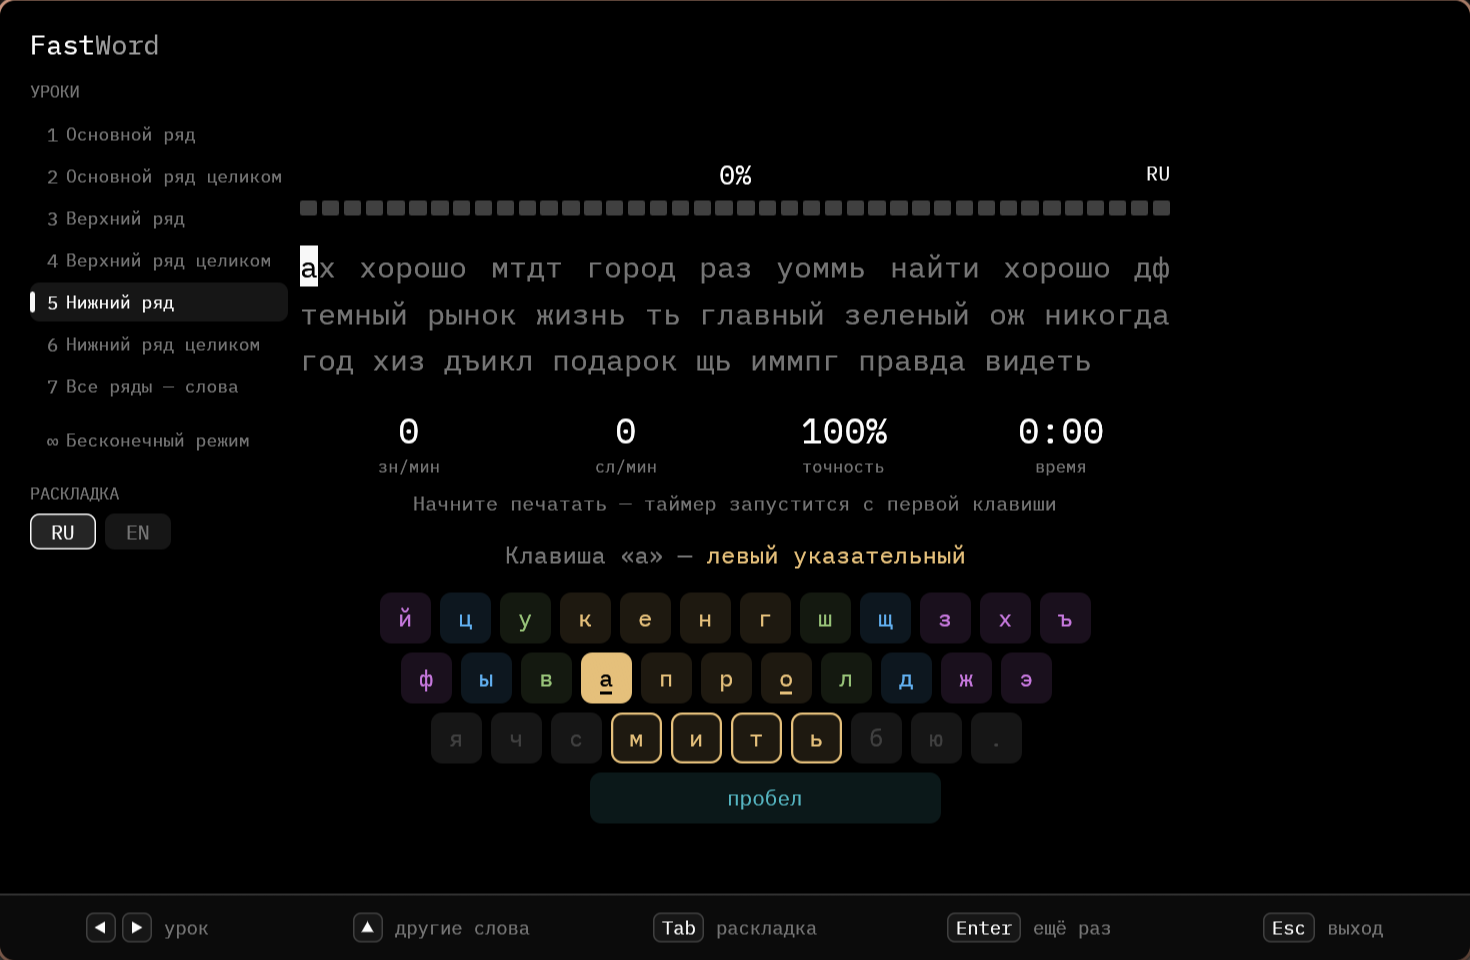
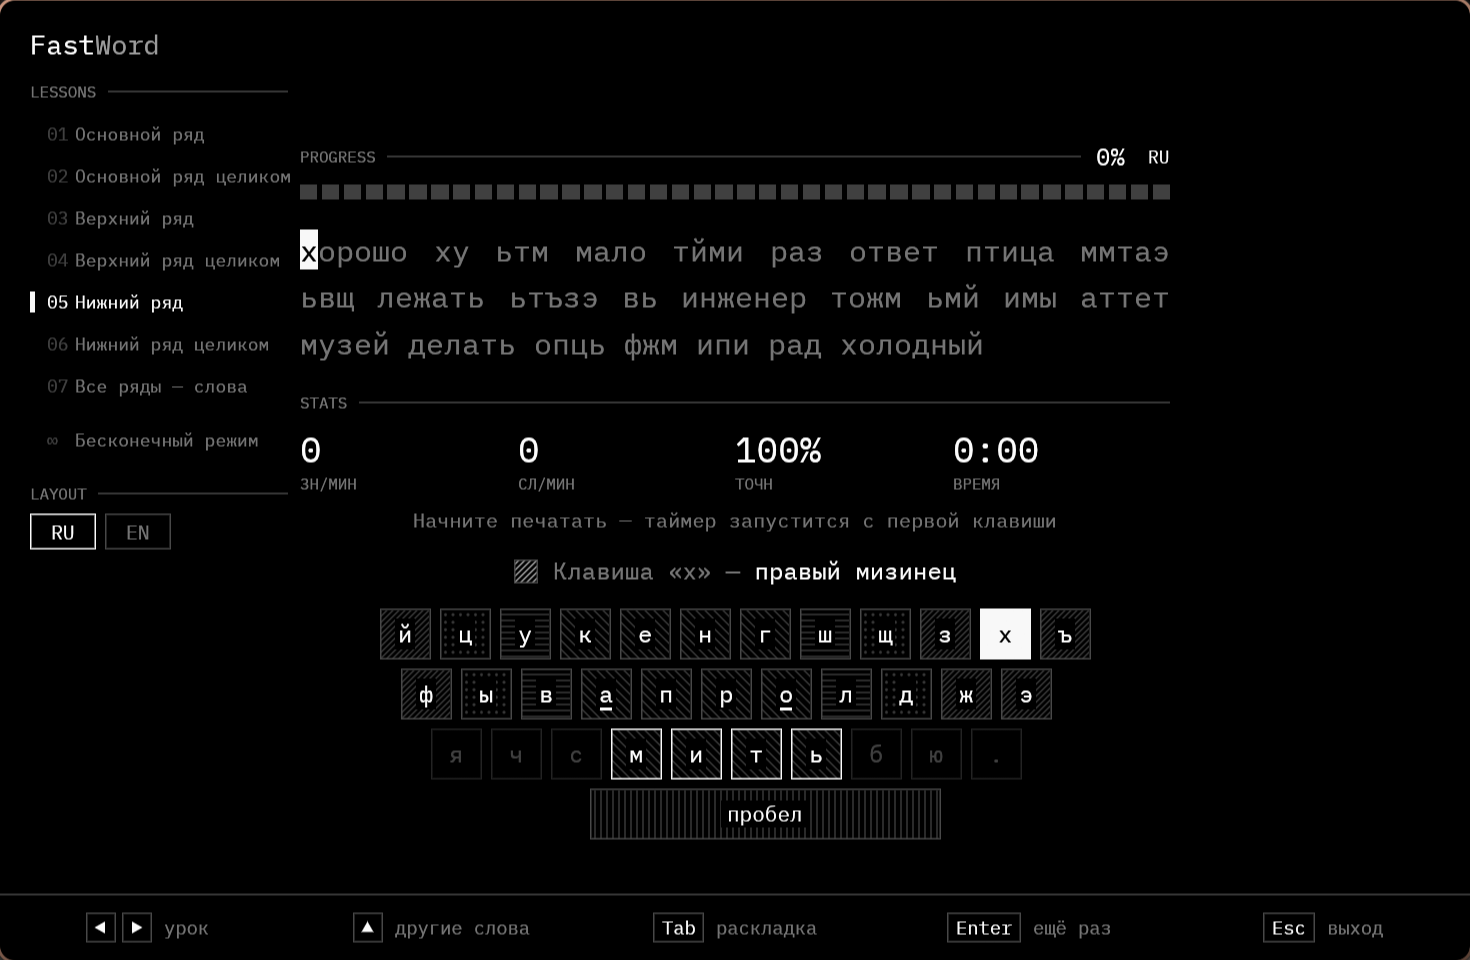
Версия 0.4.4: окно по варианту A — подписи разделов с линиями, номера уроков, клавиатура штриховкой

diff --git a/src/bin/fastword-gui.rs b/src/bin/fastword-gui.rs
@@ -18,7 +18,8 @@ struct Palette {
     sub: Color32,
     error: Color32,
     warn: Color32,
-    fingers: [Color32; 5],
+    line: Color32,
+    hatch: Color32,
 }
 
 const P: Palette = Palette {
@@ -31,14 +32,67 @@ const P: Palette = Palette {
     sub: Color32::from_rgb(0x9c, 0x9c, 0x9c),
     error: Color32::from_rgb(0xe0, 0x6c, 0x75),
     warn: Color32::from_rgb(0xe5, 0xc0, 0x7b),
-    fingers: [
-        Color32::from_rgb(0xc6, 0x78, 0xdd),
-        Color32::from_rgb(0x61, 0xaf, 0xef),
-        Color32::from_rgb(0x98, 0xc3, 0x79),
-        Color32::from_rgb(0xe5, 0xc0, 0x7b),
-        Color32::from_rgb(0x56, 0xb6, 0xc2),
-    ],
+    line: Color32::from_rgb(0x48, 0x48, 0x48),
+    hatch: Color32::from_rgb(0x38, 0x38, 0x38),
 };
+
+fn section(p: &egui::Painter, left: f32, right: f32, y: f32, label: &str, color: Color32, line: Color32) -> f32 {
+    let g = p.layout_no_wrap(label.to_string(), FontId::monospace(10.5), color);
+    let h = g.size().y;
+    let end = left + g.size().x;
+    p.galley(Pos2::new(left, y), g, color);
+    if right > end + 8.0 {
+        p.hline((end + 8.0)..=right, y + h / 2.0, Stroke::new(1.0, line));
+    }
+    end
+}
+
+fn hatch(p: &egui::Painter, r: Rect, group: usize, color: Color32) {
+    let p = p.with_clip_rect(r);
+    let s = Stroke::new(1.0, color);
+    let (w, h) = (r.width(), r.height());
+    match group {
+        0 => {
+            let mut d = -h;
+            while d < w {
+                p.line_segment([Pos2::new(r.left() + d, r.bottom()), Pos2::new(r.left() + d + h, r.top())], s);
+                d += 4.0;
+            }
+        }
+        1 => {
+            let mut y = r.top() + 3.0;
+            while y < r.bottom() {
+                let mut x = r.left() + 3.0;
+                while x < r.right() {
+                    p.circle_filled(Pos2::new(x, y), 0.9, color);
+                    x += 5.0;
+                }
+                y += 5.0;
+            }
+        }
+        2 => {
+            let mut y = r.top() + 2.5;
+            while y < r.bottom() {
+                p.hline(r.x_range(), y, s);
+                y += 4.0;
+            }
+        }
+        3 => {
+            let mut d = -h;
+            while d < w {
+                p.line_segment([Pos2::new(r.left() + d, r.top()), Pos2::new(r.left() + d + h, r.bottom())], s);
+                d += 6.0;
+            }
+        }
+        _ => {
+            let mut x = r.left() + 2.5;
+            while x < r.right() {
+                p.vline(x, r.y_range(), s);
+                x += 4.0;
+            }
+        }
+    }
+}
 
 const COLUMN: f32 = 580.0;
 const KEY: f32 = 34.0;
@@ -148,7 +202,7 @@ impl App {
         let mut y = full.top() + 54.0;
         let clickable = t > 0.6;
 
-        ui.painter().text(Pos2::new(left, y), Align2::LEFT_TOP, "УРОКИ", FontId::proportional(11.0), fade(P.dim));
+        section(ui.painter(), left, left + MENU_W, y, "LESSONS", fade(P.dim), fade(P.line));
         y += 22.0;
 
         let mut chosen = None;
@@ -163,16 +217,13 @@ impl App {
             let current = i == self.lesson;
             let p = ui.painter();
             if current {
-                p.rect_filled(row, CornerRadius::same(6), fade(P.surface));
                 let bar = Rect::from_min_size(row.min + Vec2::new(0.0, 6.0), Vec2::new(3.0, 14.0));
-                p.rect_filled(bar, CornerRadius::same(2), fade(P.accent));
-            } else if clickable && resp.hovered() {
-                p.rect_filled(row, CornerRadius::same(6), fade(P.surface.gamma_multiply(0.6)));
+                p.rect_filled(bar, CornerRadius::ZERO, fade(P.accent));
             }
-            let num_color = if current { P.accent } else { P.dim };
+            let num_color = if current { P.text } else { P.faint };
             let text_color = if current || (clickable && resp.hovered()) { P.text } else { P.dim };
-            p.text(row.left_center() + Vec2::new(11.0, 0.0), Align2::LEFT_CENTER, if is_endless(i) { "∞".to_string() } else { format!("{}", i + 1) }, FontId::monospace(12.5), fade(num_color));
-            p.text(row.left_center() + Vec2::new(24.0, 0.0), Align2::LEFT_CENTER, lesson.title, FontId::proportional(12.0), fade(text_color));
+            p.text(row.left_center() + Vec2::new(11.0, 0.0), Align2::LEFT_CENTER, if is_endless(i) { "∞".to_string() } else { format!("{:02}", i + 1) }, FontId::monospace(12.0), fade(num_color));
+            p.text(row.left_center() + Vec2::new(30.0, 0.0), Align2::LEFT_CENTER, lesson.title, FontId::proportional(12.0), fade(text_color));
             if clickable && resp.clicked() {
                 chosen = Some(i);
             }
@@ -185,17 +236,9 @@ impl App {
                     let resp = ui.interact(r, ui.scope_id().with(("mix", k)), Sense::CLICK);
                     let on = mix == self.mix;
                     let p = ui.painter();
-                    let (fill, color) = if on {
-                        (P.accent.gamma_multiply(0.15), P.accent)
-                    } else if clickable && resp.hovered() {
-                        (P.surface, P.text)
-                    } else {
-                        (P.surface, P.dim)
-                    };
-                    p.rect_filled(r, CornerRadius::same(6), fade(fill));
-                    if on {
-                        p.rect_stroke(r, CornerRadius::same(6), Stroke::new(1.0, fade(P.accent)), StrokeKind::Inside);
-                    }
+                    let color = if on || (clickable && resp.hovered()) { P.text } else { P.dim };
+                    let border = if on { P.text } else { P.line };
+                    p.rect_stroke(r, CornerRadius::ZERO, Stroke::new(1.0, fade(border)), StrokeKind::Inside);
                     p.text(r.center(), Align2::CENTER_CENTER, mix.label(), FontId::proportional(12.0), fade(color));
                     if clickable && resp.clicked() {
                         new_mix = Some(mix);
@@ -206,7 +249,7 @@ impl App {
         }
 
         y += 14.0;
-        ui.painter().text(Pos2::new(left, y), Align2::LEFT_TOP, "РАСКЛАДКА", FontId::proportional(11.0), fade(P.dim));
+        section(ui.painter(), left, left + MENU_W, y, "LAYOUT", fade(P.dim), fade(P.line));
         y += 20.0;
         let mut new_lang = None;
         for (i, lang) in [Lang::Ru, Lang::En].into_iter().enumerate() {
@@ -214,17 +257,9 @@ impl App {
             let resp = ui.interact(r, ui.scope_id().with(("lang", i)), Sense::CLICK);
             let current = lang == self.lang;
             let p = ui.painter();
-            let (fill, color) = if current {
-                (P.accent.gamma_multiply(0.15), P.accent)
-            } else if clickable && resp.hovered() {
-                (P.surface, P.text)
-            } else {
-                (P.surface, P.dim)
-            };
-            p.rect_filled(r, CornerRadius::same(6), fade(fill));
-            if current {
-                p.rect_stroke(r, CornerRadius::same(6), Stroke::new(1.0, fade(P.accent)), StrokeKind::Inside);
-            }
+            let color = if current || (clickable && resp.hovered()) { P.text } else { P.dim };
+            let border = if current { P.text } else { P.line };
+            p.rect_stroke(r, CornerRadius::ZERO, Stroke::new(1.0, fade(border)), StrokeKind::Inside);
             p.text(r.center(), Align2::CENTER_CENTER, lang.label(), FontId::proportional(13.0), fade(color));
             if clickable && resp.clicked() {
                 new_lang = Some(lang);
@@ -253,13 +288,19 @@ impl App {
         let frac = t.typed.len() as f32 / t.target.len().max(1) as f32;
         let (r, _) = ui.allocate_exact_size(Vec2::new(w, 24.0), Sense::hover());
         let p = ui.painter();
-        let center = if t.endless {
-            format!("∞ · слов: {}", t.typed.iter().filter(|&&c| c == ' ').count())
+        let value = if t.endless {
+            format!("{} СЛОВ", t.typed.iter().filter(|&&c| c == ' ').count())
         } else {
             format!("{:.0}%", frac * 100.0)
         };
-        p.text(r.center(), Align2::CENTER_CENTER, center, FontId::proportional(18.0), P.text);
-        p.text(r.right_center(), Align2::RIGHT_CENTER, self.lang.label(), FontId::proportional(13.5), P.accent);
+        let lang = p.layout_no_wrap(self.lang.label().to_string(), FontId::monospace(12.0), P.text);
+        let lang_w = lang.size().x;
+        p.galley(Pos2::new(r.right() - lang_w, r.center().y - lang.size().y / 2.0), lang, P.text);
+        let val = p.layout_no_wrap(value, FontId::monospace(16.0), P.text);
+        let val_x = r.right() - lang_w - 16.0 - val.size().x;
+        p.galley(Pos2::new(val_x, r.center().y - val.size().y / 2.0), val, P.text);
+        let label = if t.endless { "ENDLESS" } else { "PROGRESS" };
+        section(p, r.left(), val_x - 10.0, r.center().y - 7.0, label, P.dim, P.line);
 
         const SEGMENTS: usize = 40;
         const SEG_GAP: f32 = 3.0;
@@ -274,7 +315,7 @@ impl App {
             let x = bar.left() + i as f32 * (seg_w + SEG_GAP);
             let seg = Rect::from_min_size(Pos2::new(x, bar.top()), Vec2::new(seg_w, bar.height()));
             let color = if i < filled { P.text } else { P.faint };
-            p.rect_filled(seg, CornerRadius::same(1), color);
+            p.rect_filled(seg, CornerRadius::ZERO, color);
         }
     }
 
@@ -333,19 +374,19 @@ impl App {
         let t = &self.test;
         let secs = t.elapsed().as_secs();
         let items = [
-            (format!("{:.0}", t.cpm()), "зн/мин"),
-            (format!("{:.0}", t.cpm() / 5.0), "сл/мин"),
-            (format!("{:.0}%", t.accuracy()), "точность"),
-            (format!("{}:{:02}", secs / 60, secs % 60), "время"),
+            (format!("{:.0}", t.cpm()), "ЗН/МИН"),
+            (format!("{:.0}", t.cpm() / 5.0), "СЛ/МИН"),
+            (format!("{:.0}%", t.accuracy()), "ТОЧН"),
+            (format!("{}:{:02}", secs / 60, secs % 60), "ВРЕМЯ"),
         ];
-        let value_color = if t.done() { P.accent } else { P.text };
-        let (r, _) = ui.allocate_exact_size(Vec2::new(ui.available_width(), 46.0), Sense::hover());
-        let cell = r.width() / items.len() as f32;
+        let (r, _) = ui.allocate_exact_size(Vec2::new(ui.available_width(), 68.0), Sense::hover());
         let p = ui.painter();
+        section(p, r.left(), r.right(), r.top(), "STATS", P.dim, P.line);
+        let cell = r.width() / items.len() as f32;
         for (i, (value, label)) in items.into_iter().enumerate() {
-            let cx = r.left() + cell * (i as f32 + 0.5);
-            p.text(Pos2::new(cx, r.top() + 14.0), Align2::CENTER_CENTER, value, FontId::proportional(24.0), value_color);
-            p.text(Pos2::new(cx, r.top() + 38.0), Align2::CENTER_CENTER, label, FontId::proportional(11.5), P.dim);
+            let x = r.left() + cell * i as f32;
+            p.text(Pos2::new(x, r.top() + 22.0), Align2::LEFT_TOP, value, FontId::monospace(24.0), P.text);
+            p.text(Pos2::new(x, r.top() + 54.0), Align2::LEFT_TOP, label, FontId::monospace(10.5), P.dim);
         }
     }
 
@@ -361,7 +402,7 @@ impl App {
             } else {
                 " · цель для следующего урока — точность от 95%"
             };
-            (format!("Готово! Enter — ещё раз{tail}"), P.accent)
+            (format!("Готово! Enter — ещё раз{tail}"), P.text)
         } else if t.started.is_none() {
             ("Начните печатать — таймер запустится с первой клавиши".to_string(), P.dim)
         } else if t.endless && t.paused() {
@@ -381,10 +422,16 @@ impl App {
         let mut job = LayoutJob::default();
         let font = FontId::proportional(16.0);
         job.append(&key, 0.0, TextFormat { font_id: font.clone(), color: P.dim, ..Default::default() });
-        job.append(f.name(), 0.0, TextFormat { font_id: font, color: P.fingers[f.group()], ..Default::default() });
+        job.append(f.name(), 0.0, TextFormat { font_id: font, color: P.text, ..Default::default() });
         let galley = ui.painter().layout_job(job);
-        let pos = r.center() - galley.size() / 2.0;
-        ui.painter().galley(pos, galley, P.text);
+        let sw = 16.0;
+        let total = sw + 10.0 + galley.size().x;
+        let x = r.center().x - total / 2.0;
+        let swatch = Rect::from_min_size(Pos2::new(x, r.center().y - sw / 2.0), Vec2::splat(sw));
+        let p = ui.painter();
+        hatch(p, swatch, f.group(), P.sub);
+        p.rect_stroke(swatch, CornerRadius::ZERO, Stroke::new(1.0, P.line), StrokeKind::Inside);
+        p.galley(Pos2::new(x + sw + 10.0, r.center().y - galley.size().y / 2.0), galley, P.text);
     }
 
     fn keyboard(&self, ui: &mut egui::Ui) {
@@ -398,25 +445,32 @@ impl App {
         let hot = next.and_then(|c| locate(self.lang, c));
         let allowed = self.lang.allowed(self.lesson);
         let new = self.lang.lesson(self.lesson).new;
-        let radius = CornerRadius::same(7);
+        let radius = CornerRadius::ZERO;
 
         for (r, keys) in self.lang.rows().iter().enumerate() {
             for (col, ch) in keys.chars().enumerate() {
                 let min = Pos2::new(x0 + (offsets[r] + col as f32) * unit, rect.top() + r as f32 * unit);
                 let kr = Rect::from_min_size(min, Vec2::splat(KEY));
-                let fc = P.fingers[Finger::for_column(col).group()];
+                let group = Finger::for_column(col).group();
                 let in_lesson = allowed.as_ref().map_or(true, |a| a.contains(&ch));
                 let is_hot = hot == Some((r, col));
-                let (fill, label) = if is_hot {
-                    (fc, P.bg)
+                let label = if is_hot {
+                    painter.rect_filled(kr, radius, P.accent);
+                    P.bg
                 } else if in_lesson {
-                    (fc.gamma_multiply(0.13), fc)
+                    painter.rect_filled(kr, radius, P.bg);
+                    hatch(painter, kr.shrink(1.0), group, P.hatch);
+                    let border = if new.contains(ch) { P.text } else { P.line };
+                    painter.rect_stroke(kr, radius, Stroke::new(1.0, border), StrokeKind::Inside);
+                    P.text
                 } else {
-                    (P.surface, P.faint)
+                    painter.rect_stroke(kr, radius, Stroke::new(1.0, P.surface.gamma_multiply(1.6)), StrokeKind::Inside);
+                    P.faint
                 };
-                painter.rect_filled(kr, radius, fill);
-                if !is_hot && new.contains(ch) {
-                    painter.rect_stroke(kr, radius, Stroke::new(1.5, fc), StrokeKind::Inside);
+                if in_lesson && !is_hot {
+                    let g = painter.layout_no_wrap(ch.to_string(), FontId::proportional(16.0), label);
+                    let bg = Rect::from_center_size(kr.center(), g.size() + Vec2::new(4.0, 0.0));
+                    painter.rect_filled(bg, CornerRadius::ZERO, P.bg);
                 }
                 painter.text(kr.center(), Align2::CENTER_CENTER, ch, FontId::proportional(16.0), label);
                 if r == 1 && (col == 3 || col == 6) {
@@ -427,17 +481,23 @@ impl App {
         }
 
         let sr = Rect::from_min_size(Pos2::new(x0 + 3.5 * unit, rect.top() + 3.0 * unit), Vec2::new(6.0 * unit - GAP, KEY));
-        let tc = P.fingers[Finger::Thumb.group()];
-        let (fill, label) = if next == Some(' ') { (tc, P.bg) } else { (tc.gamma_multiply(0.13), tc) };
-        painter.rect_filled(sr, radius, fill);
+        let label = if next == Some(' ') {
+            painter.rect_filled(sr, radius, P.accent);
+            P.bg
+        } else {
+            hatch(painter, sr.shrink(1.0), Finger::Thumb.group(), P.hatch);
+            painter.rect_stroke(sr, radius, Stroke::new(1.0, P.line), StrokeKind::Inside);
+            let g = painter.layout_no_wrap("пробел".to_string(), FontId::proportional(14.0), P.text);
+            painter.rect_filled(Rect::from_center_size(sr.center(), g.size() + Vec2::new(8.0, 0.0)), CornerRadius::ZERO, P.bg);
+            P.text
+        };
         painter.text(sr.center(), Align2::CENTER_CENTER, "пробел", FontId::proportional(14.0), label);
     }
 
     fn footer(&self, ui: &egui::Ui, full: Rect) {
         let bar = Rect::from_min_max(Pos2::new(full.left(), full.bottom() - FOOTER), full.max);
         let p = ui.painter();
-        p.rect_filled(bar, CornerRadius::ZERO, P.surface.gamma_multiply(0.5));
-        p.hline(bar.x_range(), bar.top(), Stroke::new(1.0, P.faint));
+        p.hline(bar.x_range(), bar.top(), Stroke::new(1.0, P.line));
 
         let left = Vec2::new(-1.0, 0.0);
         let right = Vec2::new(1.0, 0.0);
@@ -471,8 +531,7 @@ impl App {
             let cy = bar.center().y;
             for (chip, w) in chips.iter().zip(chip_w) {
                 let r = Rect::from_min_size(Pos2::new(x, cy - 10.0), Vec2::new(w, 20.0));
-                p.rect_filled(r, CornerRadius::same(5), P.surface);
-                p.rect_stroke(r, CornerRadius::same(5), Stroke::new(1.0, P.faint), StrokeKind::Inside);
+                p.rect_stroke(r, CornerRadius::ZERO, Stroke::new(1.0, P.line), StrokeKind::Inside);
                 match chip {
                     Chip::Text(s) => {
                         p.text(r.center(), Align2::CENTER_CENTER, *s, font.clone(), P.text);

diff --git a/README.md b/README.md
@@ -72,7 +72,7 @@ chmod +x FastWord-gui-*-linux-x64
 | 0.2.0 | 07.11.2026 | Программа получила название FastWord; появилась версия с окном |
 | 0.1.0 | 07.11.2026 | Первая версия: 7 уроков, RU/EN, подсказки пальцев, скорость и точность |
 
-В релизах 0.3.0, 0.3.2–0.3.4, 0.4.1–0.4.3 версия для терминала не менялась — обновлялось только окно.
+В релизах 0.3.0, 0.3.2–0.3.4, 0.4.1–0.4.4 версия для терминала не менялась — обновлялось только окно.
 
 ## Сборка из исходников
 
